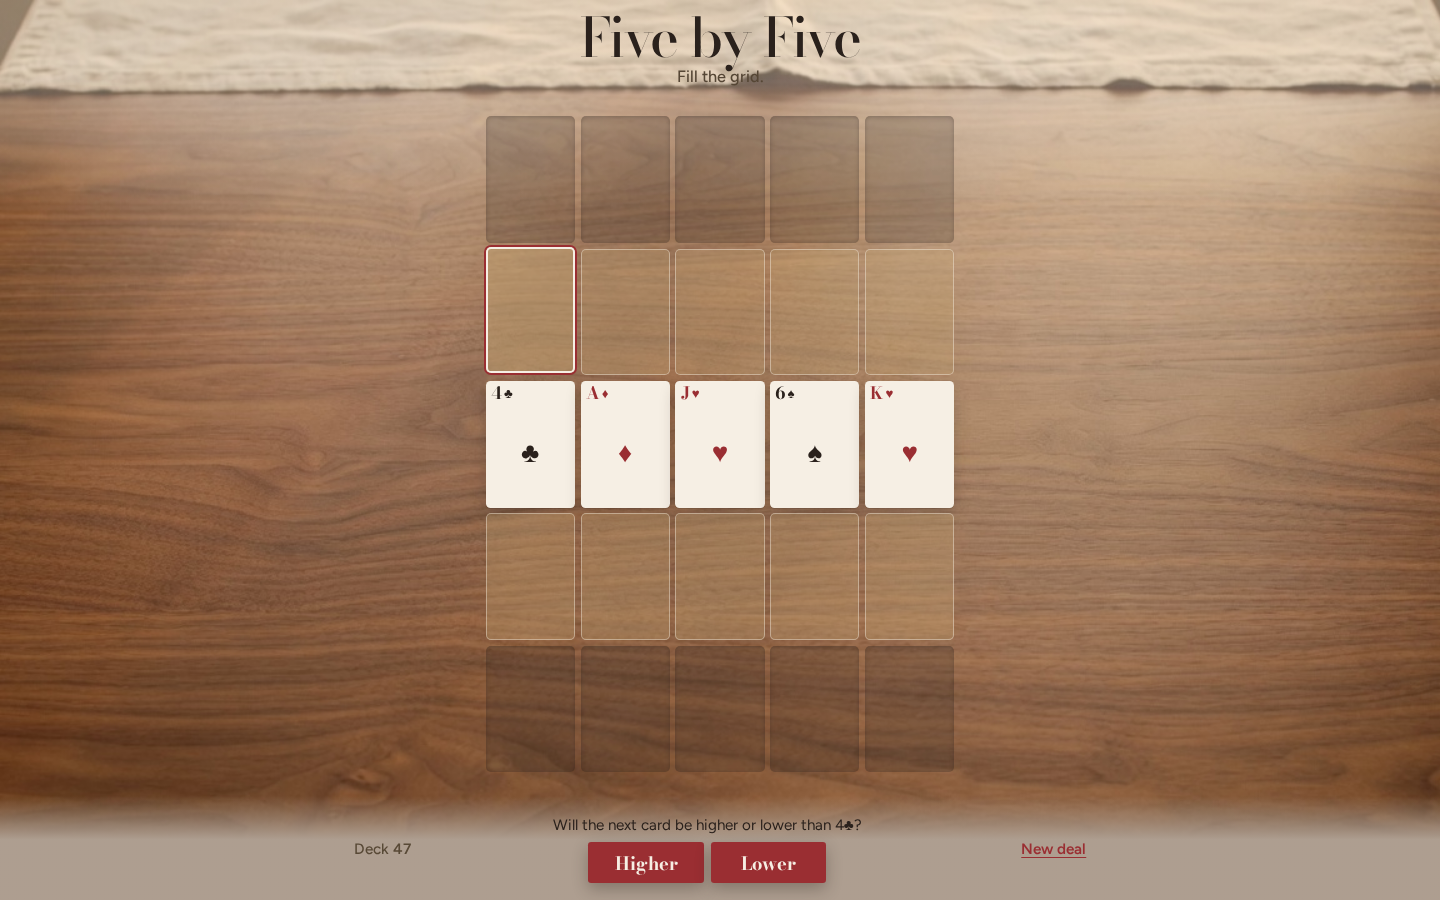
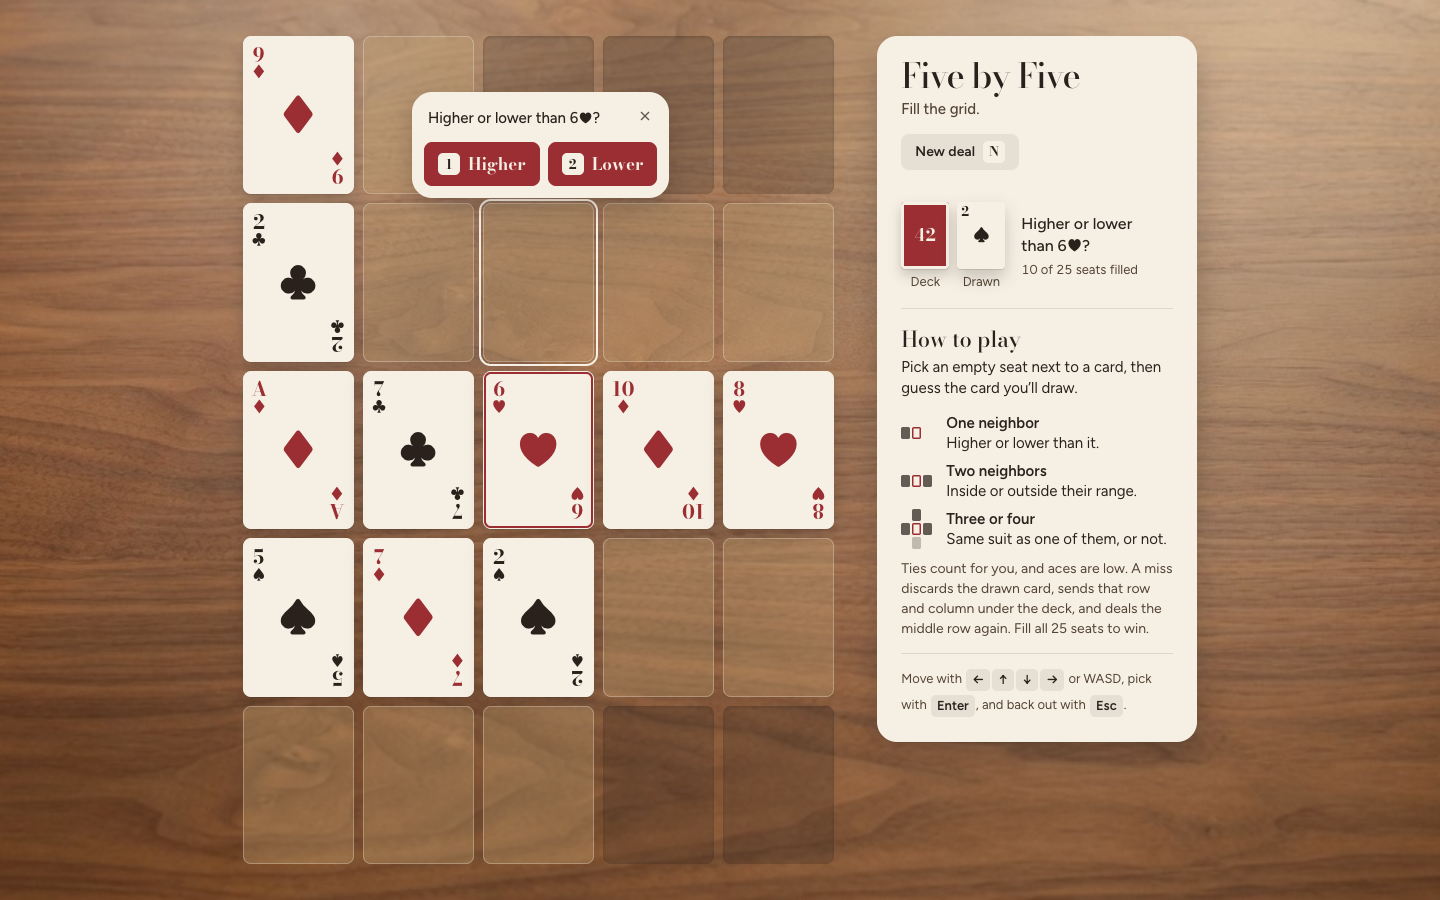
docs: refresh README screenshots, rules, and controls

diff --git a/README.md b/README.md
@@ -4,13 +4,13 @@
 
 A card game I learned from my cousins.
 
-[Play](#play) • [Rules](#rules) • [Tests](#tests)
+[Play](#play) • [Rules](#rules) • [Controls](#controls) • [Tests](#tests)
 
-<img src="./docs/images/screenshot.png" alt="Five by Five table with the middle row dealt and a higher-or-lower guess open" width="720" />
+<img src="./docs/images/screenshot.png" alt="Five by Five on a walnut table: ten cards on the 5×5 grid, a higher-or-lower guess open beside an empty seat, and the rules card on the right" width="560" />&nbsp;<img src="./docs/images/screenshot-phone.png" alt="Five by Five on a phone: the grid above the deck, the last draw, and the rules" width="162" />
 
 </div>
 
-Fill a 5×5 grid of cards on a dining-table surface. Open `index.html` in a browser, or serve the folder and visit [http://127.0.0.1:8000/](http://127.0.0.1:8000/).
+Fill a 5×5 grid of cards on a walnut dining table. Open `index.html` in a browser, or serve the folder and visit [http://127.0.0.1:8000/](http://127.0.0.1:8000/). It works on phones too, and your game is saved in the browser, so a refresh or restart picks up where you left off.
 
 ## Play
 
@@ -29,7 +29,19 @@ The middle row is always dealt first. Play empty seats that sit beside at least 
 - Two neighbors: guess **inside** or **outside** the range they form.
 - Three or four neighbors: guess **same** suit as a neighbor, or **different**.
 
-A hit places the drawn card. A miss sends that row and column back to the deck, then the middle row is refilled. Fill every seat to win.
+Ties count for you, and aces are low. A hit places the drawn card. A miss discards the drawn card, sends that row and column to the bottom of the deck, then the middle row is refilled. Fill every seat to win.
+
+## Controls
+
+Click or tap an open seat next to a card, then pick your guess. On a keyboard:
+
+| Key | Action |
+| --- | --- |
+| Arrow keys or WASD | Move between seats |
+| Enter or Space | Pick a seat |
+| 1 or 2 | Choose the first or second guess |
+| Esc | Back out of a guess |
+| N | Deal a new game |
 
 ## Tests
 
